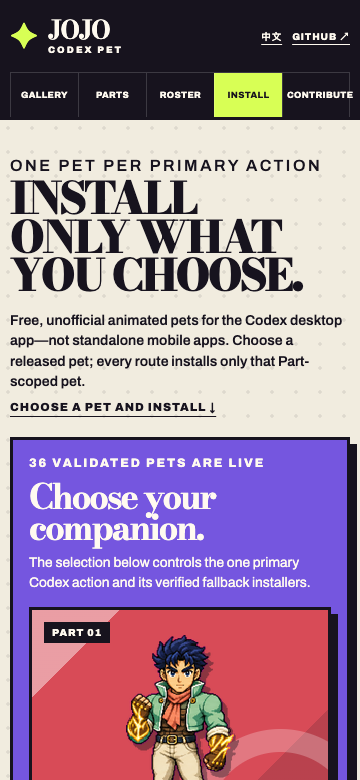
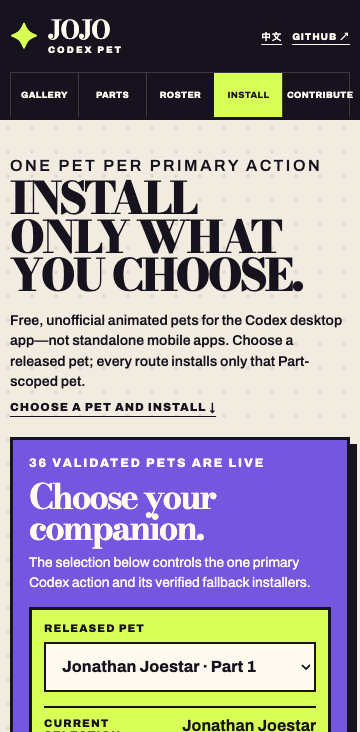
tighten install QA evidence and page-link tests

diff --git a/apps/web/src/lib/install-actions.test.ts b/apps/web/src/lib/install-actions.test.ts
@@ -176,9 +176,13 @@ try {
   assert.equal(beaconPayload.pet_id, "part-03-star-platinum");
 
   const pageLinks: string[] = [];
+  let pageLinkActionRequests = 0;
   setBrowserGlobals({
     writeText: async (value) => { pageLinks.push(value); },
-    fetch: (async () => new Response(null, { status: 200 })) as typeof globalThis.fetch
+    fetch: (async () => {
+      pageLinkActionRequests += 1;
+      return new Response(null, { status: 200 });
+    }) as typeof globalThis.fetch
   });
   const pageLinkButton = new FakeActionElement({
     copyPageLink: "/zh-CN/pets/part-03-jotaro-kujo/",
@@ -189,8 +193,29 @@ try {
   bindInstallActions(new FakeRoot([], [], [pageLinkButton]) as unknown as ParentNode);
   pageLinkButton.dispatchEvent(new Event("click"));
   await waitForImmediate();
-  assert.deepEqual(pageLinks, ["https://local.test/zh-CN/pets/part-03-jotaro-kujo/"], "Page-link copy must use the current origin and never send an install action");
+  assert.deepEqual(pageLinks, ["https://local.test/zh-CN/pets/part-03-jotaro-kujo/"], "Page-link copy must use the current origin");
+  assert.equal(pageLinkActionRequests, 0, "Successful page-link copy must not send an install action");
   assert.equal(pageLinkButton.textContent, "Link copied");
+
+  let failedPageLinkRequests = 0;
+  setBrowserGlobals({
+    writeText: async () => { throw new Error("clipboard denied"); },
+    fetch: (async () => {
+      failedPageLinkRequests += 1;
+      return new Response(null, { status: 200 });
+    }) as typeof globalThis.fetch
+  });
+  const failedPageLinkButton = new FakeActionElement({
+    copyPageLink: "/zh-CN/pets/part-03-jotaro-kujo/",
+    pageLinkCopyLabel: "Copy page link",
+    pageLinkCopiedLabel: "Link copied",
+    pageLinkCopyFailedLabel: "Copy failed"
+  }, "Copy page link");
+  bindInstallActions(new FakeRoot([], [], [failedPageLinkButton]) as unknown as ParentNode);
+  failedPageLinkButton.dispatchEvent(new Event("click"));
+  await waitForImmediate();
+  assert.equal(failedPageLinkRequests, 0, "Failed page-link copy must not send an install action");
+  assert.equal(failedPageLinkButton.textContent, "Copy failed", "Failed page-link copy must show actionable feedback");
 
   let deepLinkFallbackRequests = 0;
   setBrowserGlobals({

diff --git a/docs/qa-install-path-2026-09-06.md b/docs/qa-install-path-2026-09-06.md
@@ -11,16 +11,18 @@
 
 ## 浏览器验收
 
-使用 Playwright CLI 真实浏览器访问本地构建产物：
+使用独立 Playwright CLI 浏览器会话 `jojo-followup`，在当前最终 `apps/web/dist` 上覆盖重拍以下六张截图：
 
 | 页面 | 尺寸 | 结果 | 证据 |
 | --- | ---: | --- | --- |
-| English Install | 360×780 | 标题、产品前提、选择器、主 Codex CTA、辅助安装入口均可访问 | [截图](qa-install-en-360.png) |
+| English Install | 360×732 | 选择器/控制面板进入文档流；主 CTA 在首屏以下，未声称首屏可见 | [截图](qa-install-en-360.png) |
 | 中文 Install | 390×844 | 中文前提、选择器、`在 Codex 中打开` 和安装后 Refresh 指引可见 | [截图](qa-install-zh-390.png) |
 | English pet detail | 390×844 | 真实像素预览、桌面端前提、单一主 CTA 和手机复制页面链接可用 | [截图](qa-pet-en-390.png) |
 | 中文 pet detail | 390×844 | 中文详情、真实像素预览、桌面端前提和主 CTA 可用 | [截图](qa-pet-zh-390.png) |
 | English Install | 1440×1000 | 桌面端三栏选择/预览/主 CTA 布局正常 | [截图](qa-install-en-desktop.png) |
 | English pet detail | 1440×1000 | 桌面端详情与安装卡片正常，无横向溢出 | [截图](qa-pet-en-desktop.png) |
+
+360×732 初始滚动位置的实际几何位置：`.picker-control` top `607.39px`，`#released-pet-select` top `642.39px`，主 Codex CTA `.codex-action` top `852.27px`。因此选择器/控制面板已按最终 CSS 排在预览之前，但 CTA 不在 732px 首屏内；六张截图只记录最终候选的实际位置，不声称所有操作都在首屏。
 
 ## 交互步骤与结果
 
